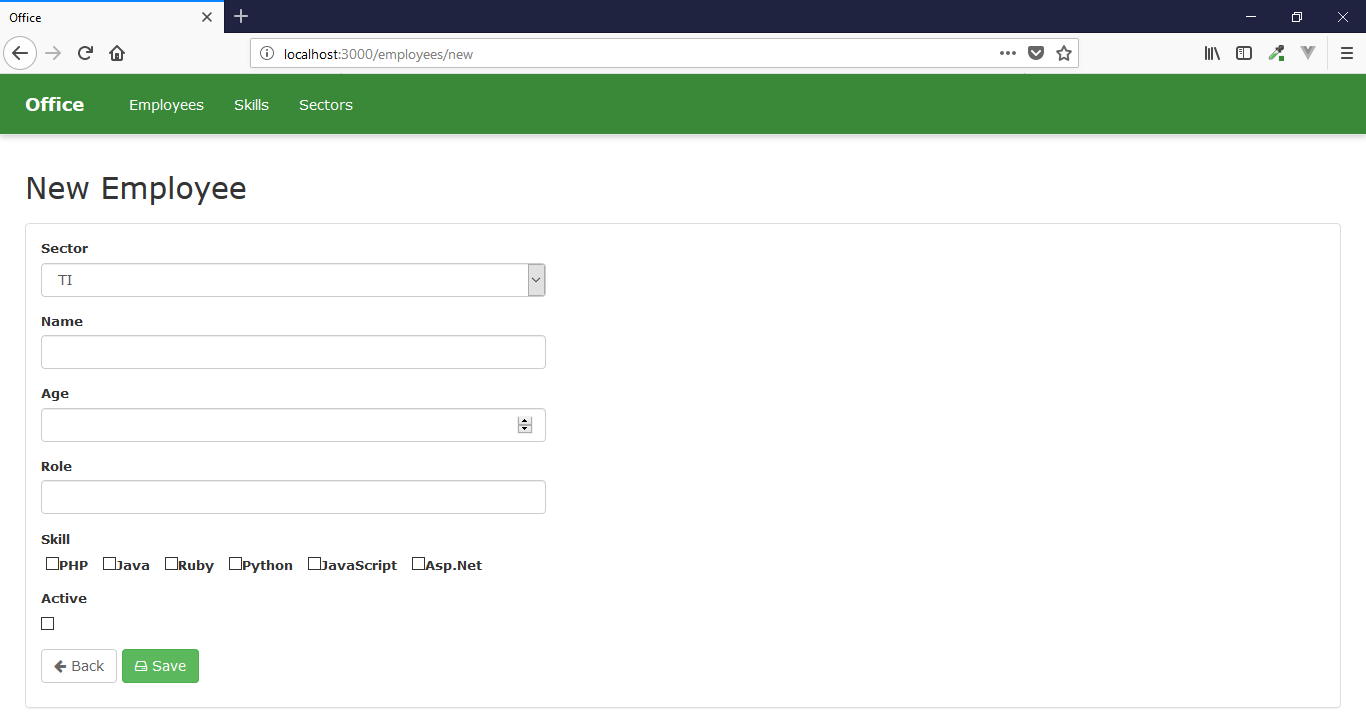
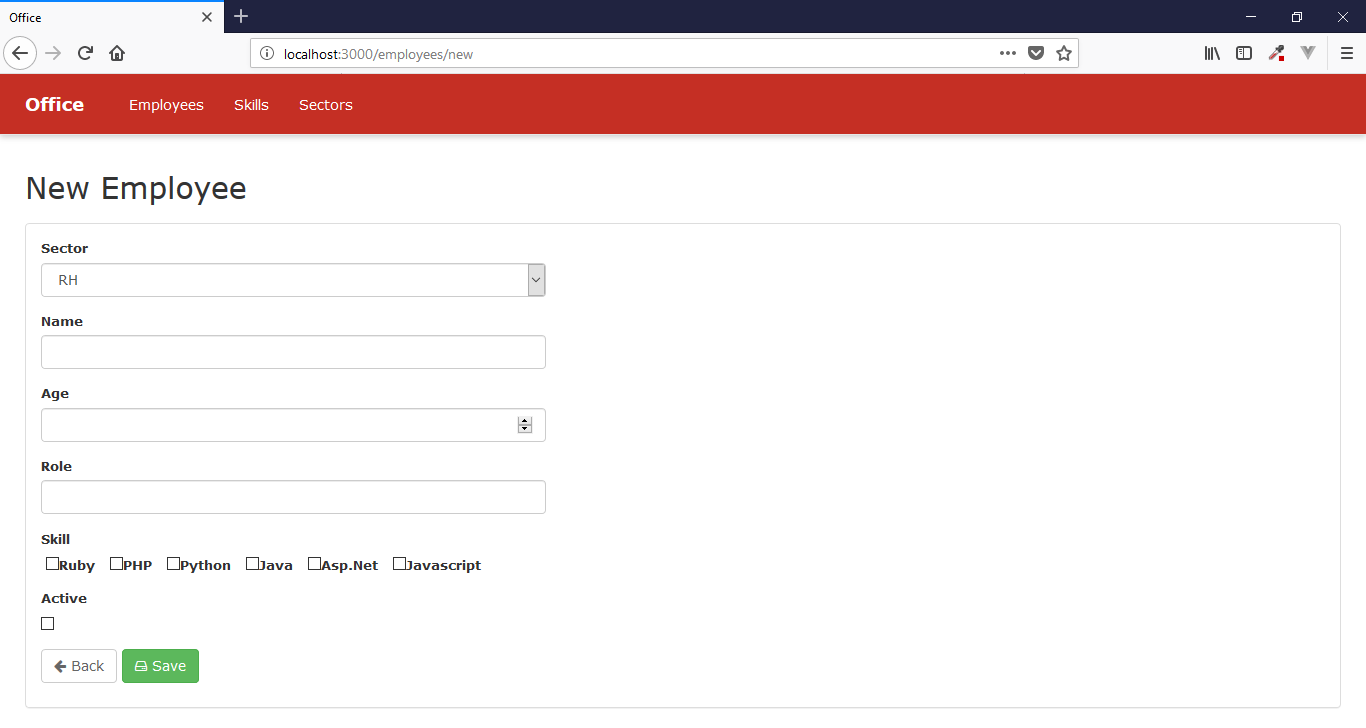
Update files

Changed region(s): [[0.0, 0.0907, 1.0, 0.1813], [0.0307, 0.7555, 0.369, 0.7857], [0.0307, 0.3626, 0.0615, 0.3929]]

diff --git a/app/assets/stylesheets/scaffolds.scss b/app/assets/stylesheets/scaffolds.scss
@@ -63,7 +63,7 @@ a.btn-primary {
     z-index: 9 !important;
 }
 .navbar-default {
-    background-color: #398939 !important;
+    background-color: #C52F24 !important;
     box-shadow: 0px 2px 6px #ccc;
 }
 .navbar-default .navbar-nav {
@@ -143,6 +143,10 @@ td {
 
 .container-form {
 	margin-left: -15px !important;
+}
+
+.alert {
+  margin-top: 15px !important;
 }
 
 div {

diff --git a/app/controllers/employees_controller.rb b/app/controllers/employees_controller.rb
@@ -34,7 +34,7 @@ class EmployeesController < ApplicationController
 
     respond_to do |format|
       if @employee.save
-        format.html { redirect_to @employee, notice: 'Employee was successfully created.' }
+        format.html { redirect_to employees_url, notice: 'Employee was successfully created.' }
         format.json { render :show, status: :created, location: @employee }
       else
         format.html { render :new }
@@ -48,7 +48,7 @@ class EmployeesController < ApplicationController
   def update
     respond_to do |format|
       if @employee.update(employee_params)
-        format.html { redirect_to @employee, notice: 'Employee was successfully updated.' }
+        format.html { redirect_to employees_url, notice: 'Employee was successfully updated.' }
         format.json { render :show, status: :ok, location: @employee }
       else
         format.html { render :edit }

diff --git a/app/controllers/sectors_controller.rb b/app/controllers/sectors_controller.rb
@@ -34,7 +34,7 @@ class SectorsController < ApplicationController
 
     respond_to do |format|
       if @sector.save
-        format.html { redirect_to @sector, notice: 'Sector was successfully created.' }
+        format.html { redirect_to sectors_url, notice: 'Sector was successfully created.' }
         format.json { render :show, status: :created, location: @sector }
       else
         format.html { render :new }
@@ -48,7 +48,7 @@ class SectorsController < ApplicationController
   def update
     respond_to do |format|
       if @sector.update(sector_params)
-        format.html { redirect_to @sector, notice: 'Sector was successfully updated.' }
+        format.html { redirect_to sectors_url, notice: 'Sector was successfully updated.' }
         format.json { render :show, status: :ok, location: @sector }
       else
         format.html { render :edit }

diff --git a/app/controllers/skills_controller.rb b/app/controllers/skills_controller.rb
@@ -34,7 +34,7 @@ class SkillsController < ApplicationController
 
     respond_to do |format|
       if @skill.save
-        format.html { redirect_to @skill, notice: 'Skill was successfully created.' }
+        format.html { redirect_to skills_url, notice: 'Skill was successfully created.' }
         format.json { render :show, status: :created, location: @skill }
       else
         format.html { render :new }
@@ -48,7 +48,7 @@ class SkillsController < ApplicationController
   def update
     respond_to do |format|
       if @skill.update(skill_params)
-        format.html { redirect_to @skill, notice: 'Skill was successfully updated.' }
+        format.html { redirect_to skills_url, notice: 'Skill was successfully updated.' }
         format.json { render :show, status: :ok, location: @skill }
       else
         format.html { render :edit }
